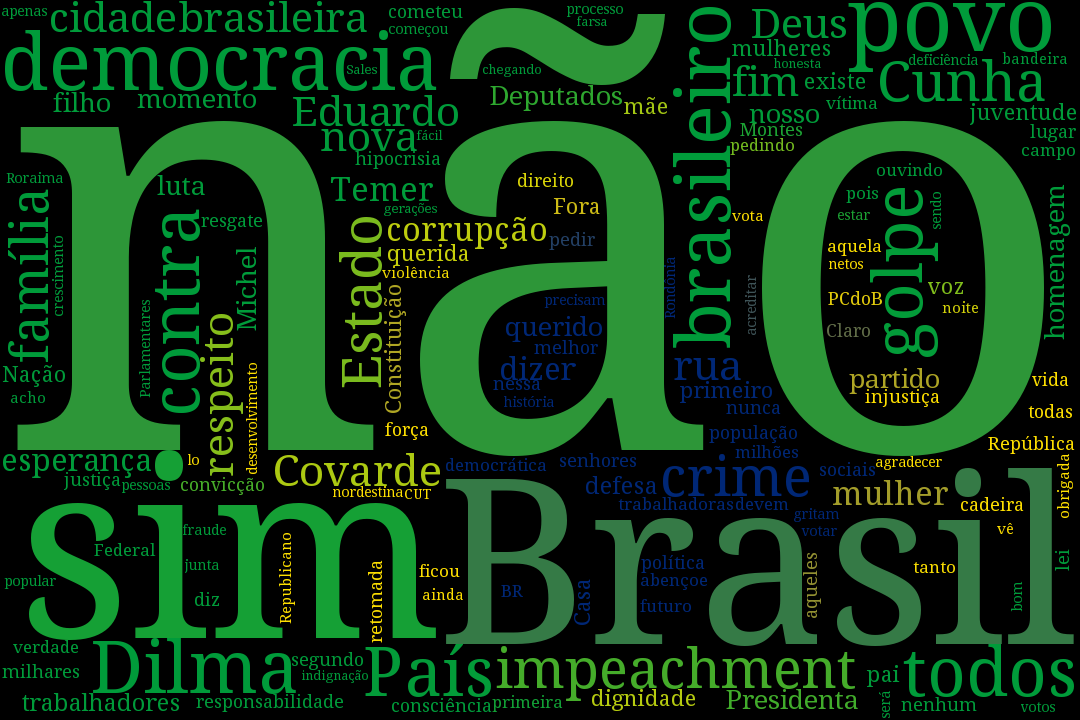
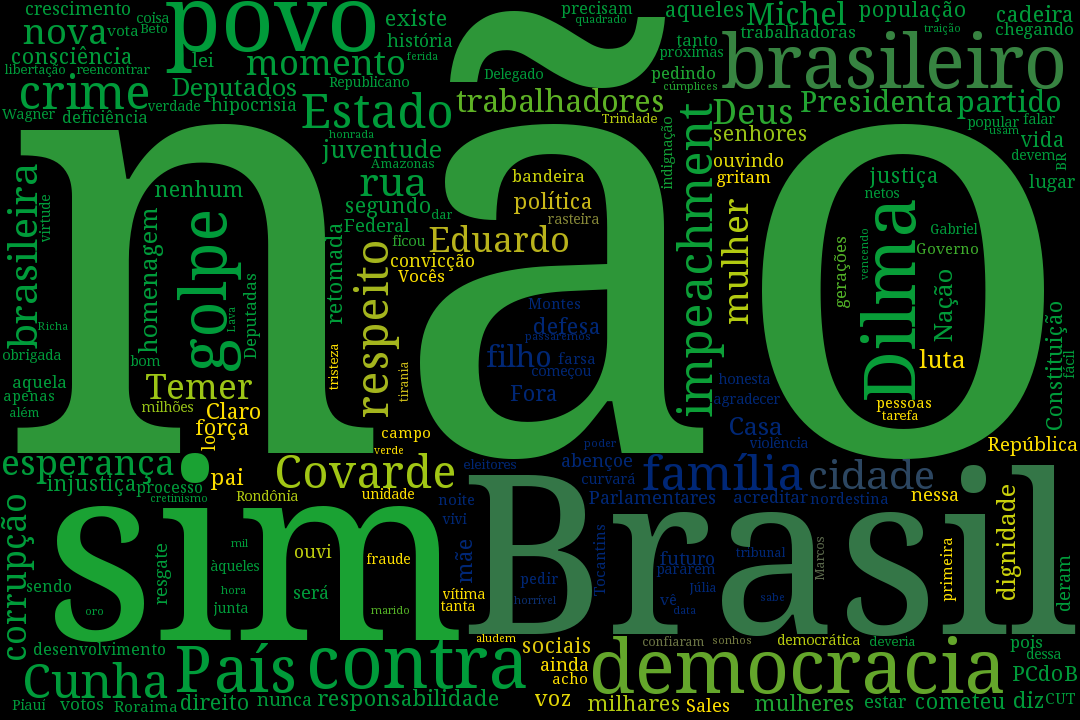
Updating clouds and stopwords

diff --git a/main.py b/main.py
@@ -68,13 +68,16 @@ blacklist = (
     'deste', 'quero', 'desta', 'dia', 'estão', 'todo', 'grande', 'toda',
     'essa', 'seus', 'pernambuco', 'dias', 'tudo', 'maioria', 'santa',
     'catarina', 'bahia', 'favor', 'hoje', 'sem', 'querem', 'minhas', 'região',
-    'votando', 'cada', 'pará', 'só', 'exa', 'mato', 'grosso', 'goiás')
+    'votando', 'cada', 'pará', 'só', 'exa', 'mato', 'grosso', 'goiás',
+    'querida', 'querido', 'muita', 'todas', 'sempre', 'nosso', 'todos',
+    'Deputados', ' Casa', 'dizer', 'melhor', 'votar', 'fim',
+    'mineiro', 'primeiro', 'temos')
 
 # Here we create de WordCloud object, defining its dimensions, the stopswords,
 # the coloring function and how many words we want
 word_cloud = WordCloud(width=1080, height=720,
                        stopwords=blacklist, color_func=brazil_colors,
-                       max_words=150, font_path=FONT)
+                       max_words=200, font_path=FONT)
 
 # Now we use that object to create the word clouds and save as images
 word_cloud.generate(votes_yes).to_file('yes.png')
@@ -82,3 +85,4 @@ word_cloud.generate(votes_no).to_file('no.png')
 word_cloud.generate(votes_men).to_file('men.png')
 word_cloud.generate(votes_women).to_file('women.png')
 word_cloud.generate(votes_all).to_file('all.png')
+

diff --git a/readme.md b/readme.md
@@ -1,7 +1,7 @@
 # Impeachment cloud
 _English below_
 
-A nossa câmara dos deputados aprovou recentemente a abertura do processo de impeachment de Dilma Rousseff. Durante a votação, os congressistas justificaram ou dedicaram seus votos das formas mais diversas. Esse projeto constroi word clouds - desenhos onde as palavras mais frequentes em um texto aparecem em tamanho maior - com base nos discursos dos deputados. As imagens estão logo a baixo.
+A nossa câmara dos deputados aprovou recentemente a abertura do processo de impeachment de Dilma Rousseff. Durante a votação, os congressistas justificaram ou dedicaram seus votos das formas mais diversas. Esse projeto constroi word clouds - desenhos onde as palavras mais frequentes em um texto aparecem em tamanho maior - com base nos discursos dos deputados. As imagens estão logo a baixo e foram consideradas as 200 palavras mais frequentes.
 
 _English_
 Brazil is in the middle of a political crisis. You can get a nice overview of the situation in [this amazing video by Vlogbrothers](https://www.youtube.com/watch?v=rFKsY5O7oYs).
